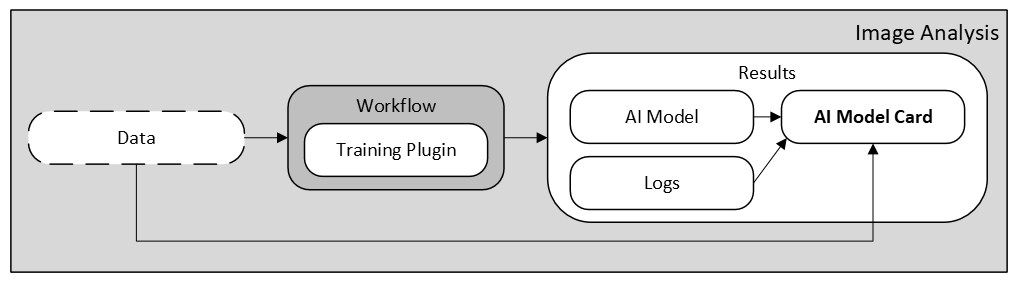
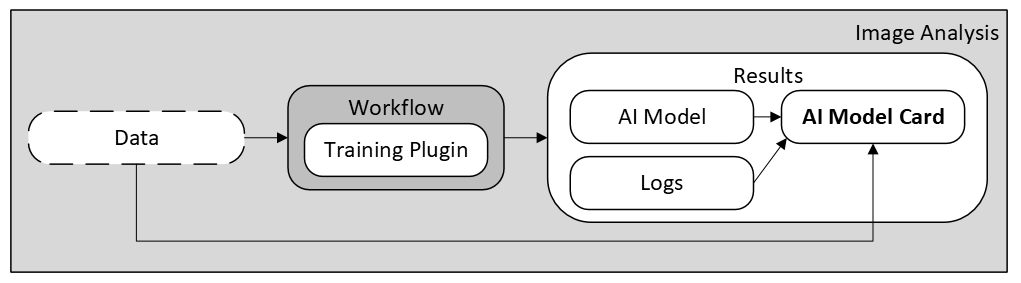
feat: bigger images

diff --git a/sec/2_methods.tex b/sec/2_methods.tex
@@ -9,7 +9,7 @@ container, allowing all kinds of analysis or modification.
 
 \begin{figure}[H]
   \centering
-  \includegraphics[width=0.8\linewidth]{png/1_wipp.png}
+  \includegraphics[width=1.0\linewidth]{png/1_wipp.png}
   \caption{Web Image Processing Pipeline}
   \label{fig:1wipp}
 \end{figure}
@@ -27,7 +27,7 @@ BioImage.IO, Cellpose, and more.
 
 \begin{figure}[H]
   \centering
-  \includegraphics[width=0.8\linewidth]{png/2_inference_plugin.png}
+  \includegraphics[width=1.0\linewidth]{png/2_inference_plugin.png}
   \caption{Inference Plugin}
   \label{fig:2inference}
 \end{figure}
@@ -47,7 +47,7 @@ Figure 3, training an AI in WIPP automatically generates its documentation
 
 \begin{figure}[H]
   \centering
-  \includegraphics[width=0.8\linewidth]{png/3_ai_model_card.png}
+  \includegraphics[width=1.0\linewidth]{png/3_ai_model_card.png}
   \caption{AI Model Card}
   \label{fig:3aimodelcard}
 \end{figure}
@@ -64,7 +64,7 @@ our case images.
 
 \begin{figure}[H]
   \centering
-  \includegraphics[width=0.8\linewidth]{png/4_accuracy.png}
+  \includegraphics[width=1.0\linewidth]{png/4_accuracy.png}
   \caption{Accuracy Plugin}
   \label{fig:4accuracy}
 \end{figure}
